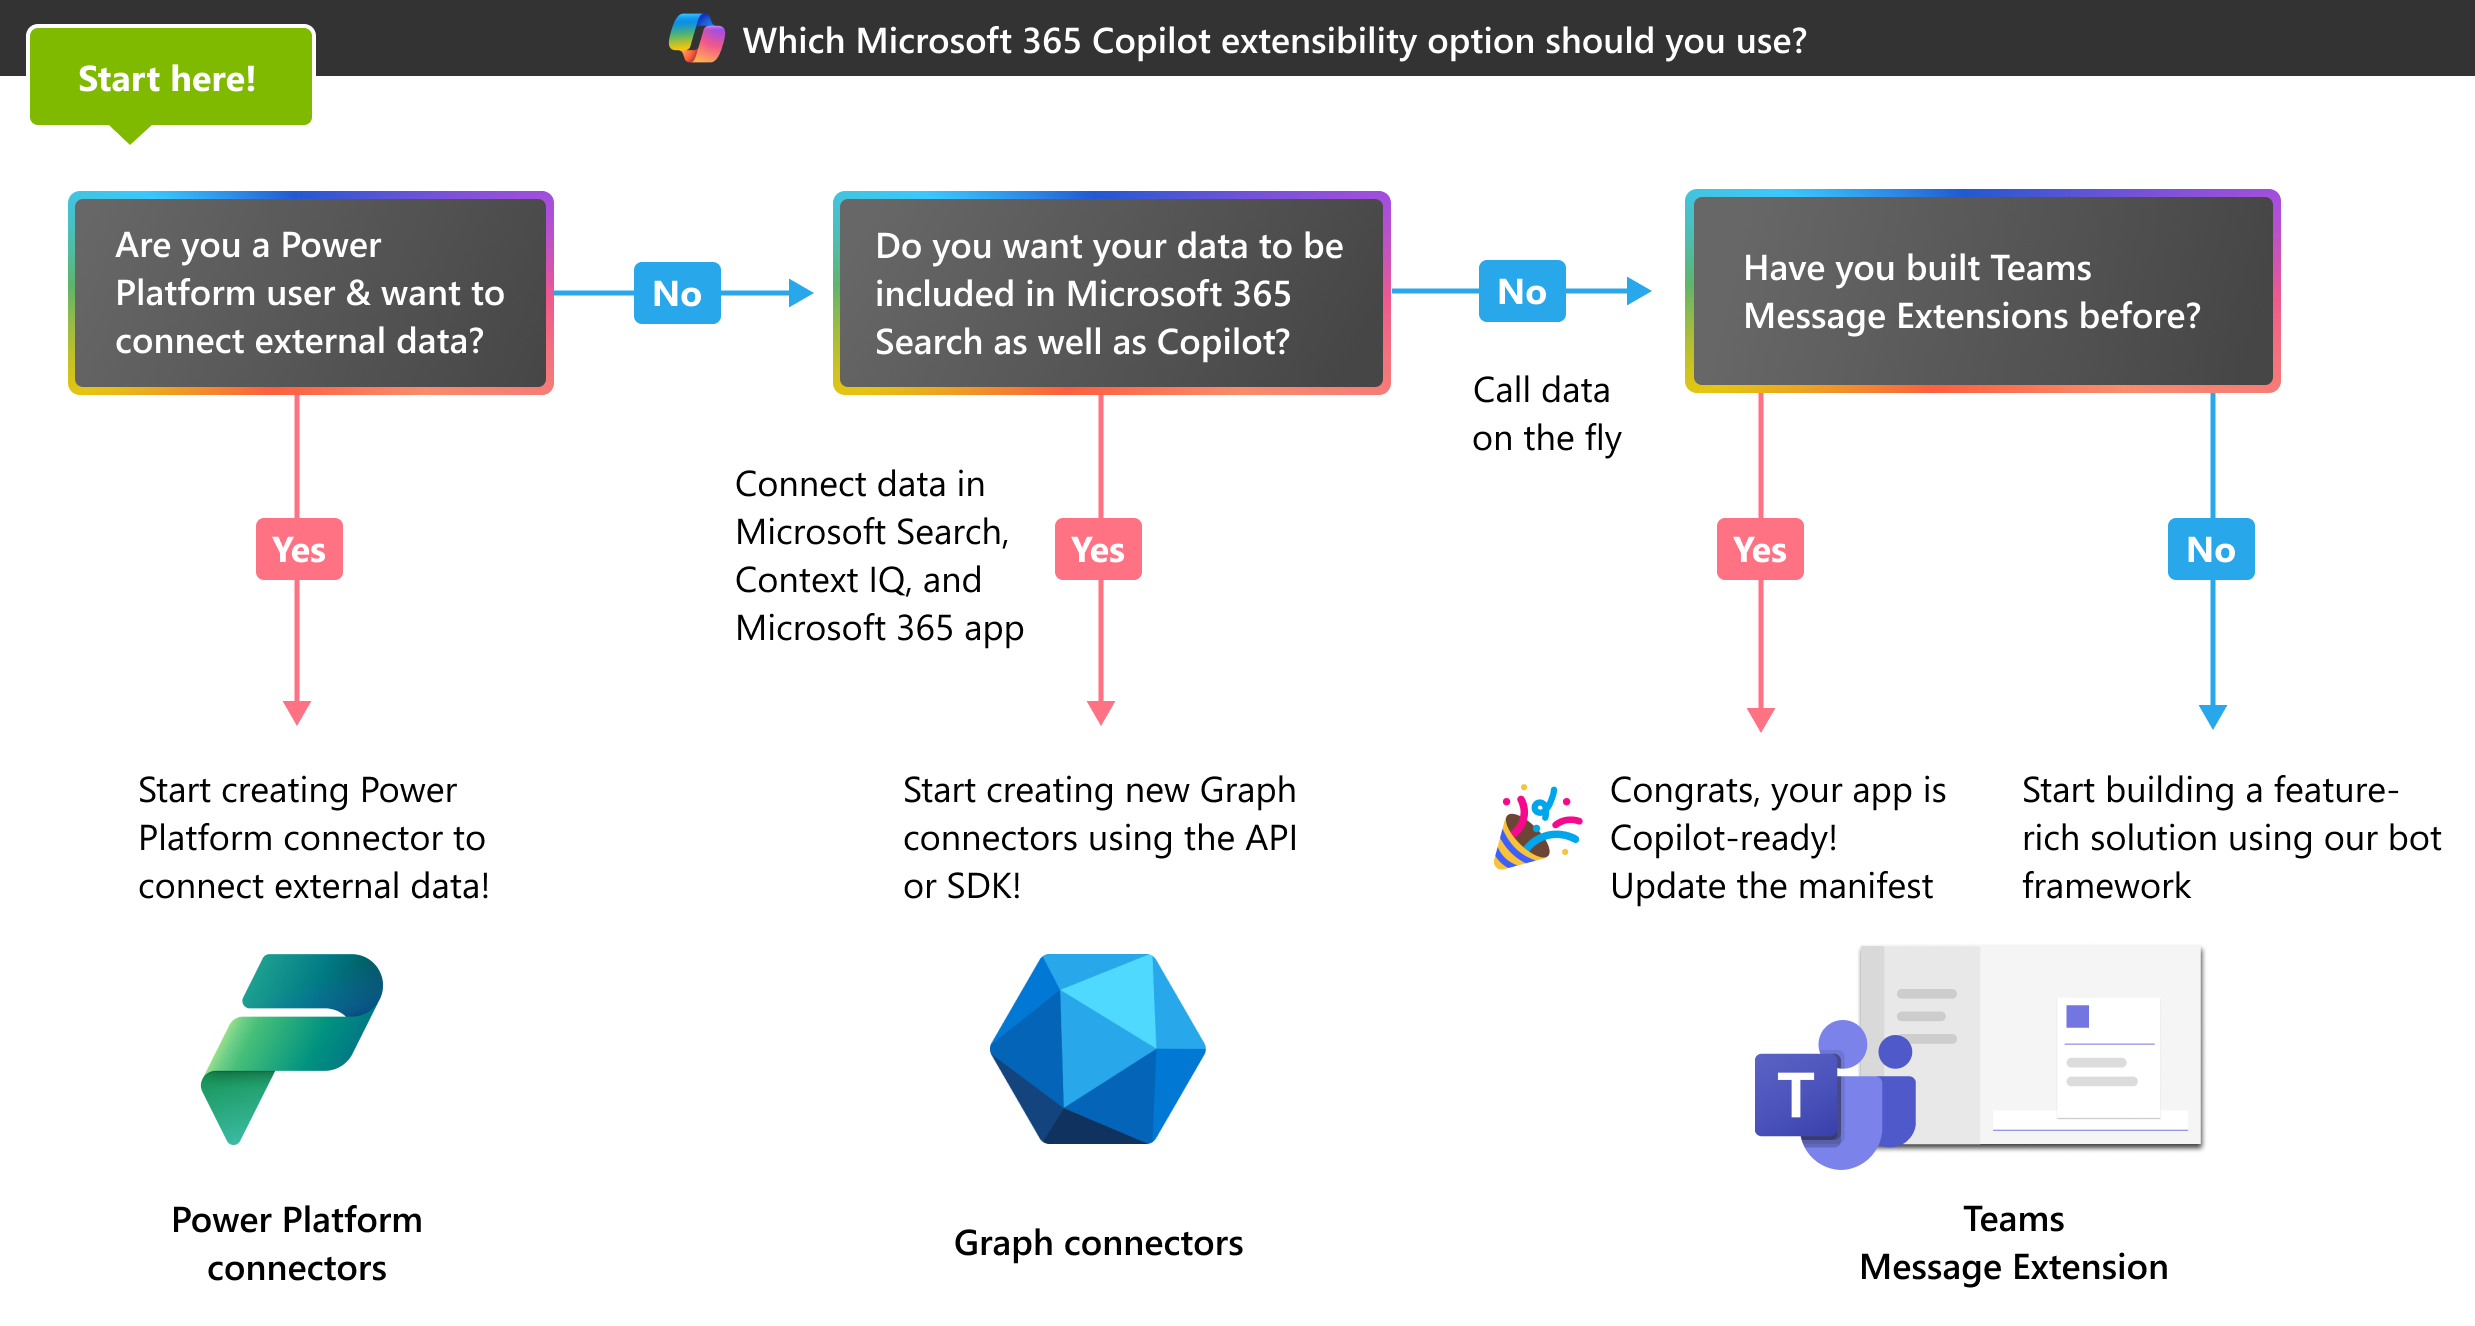
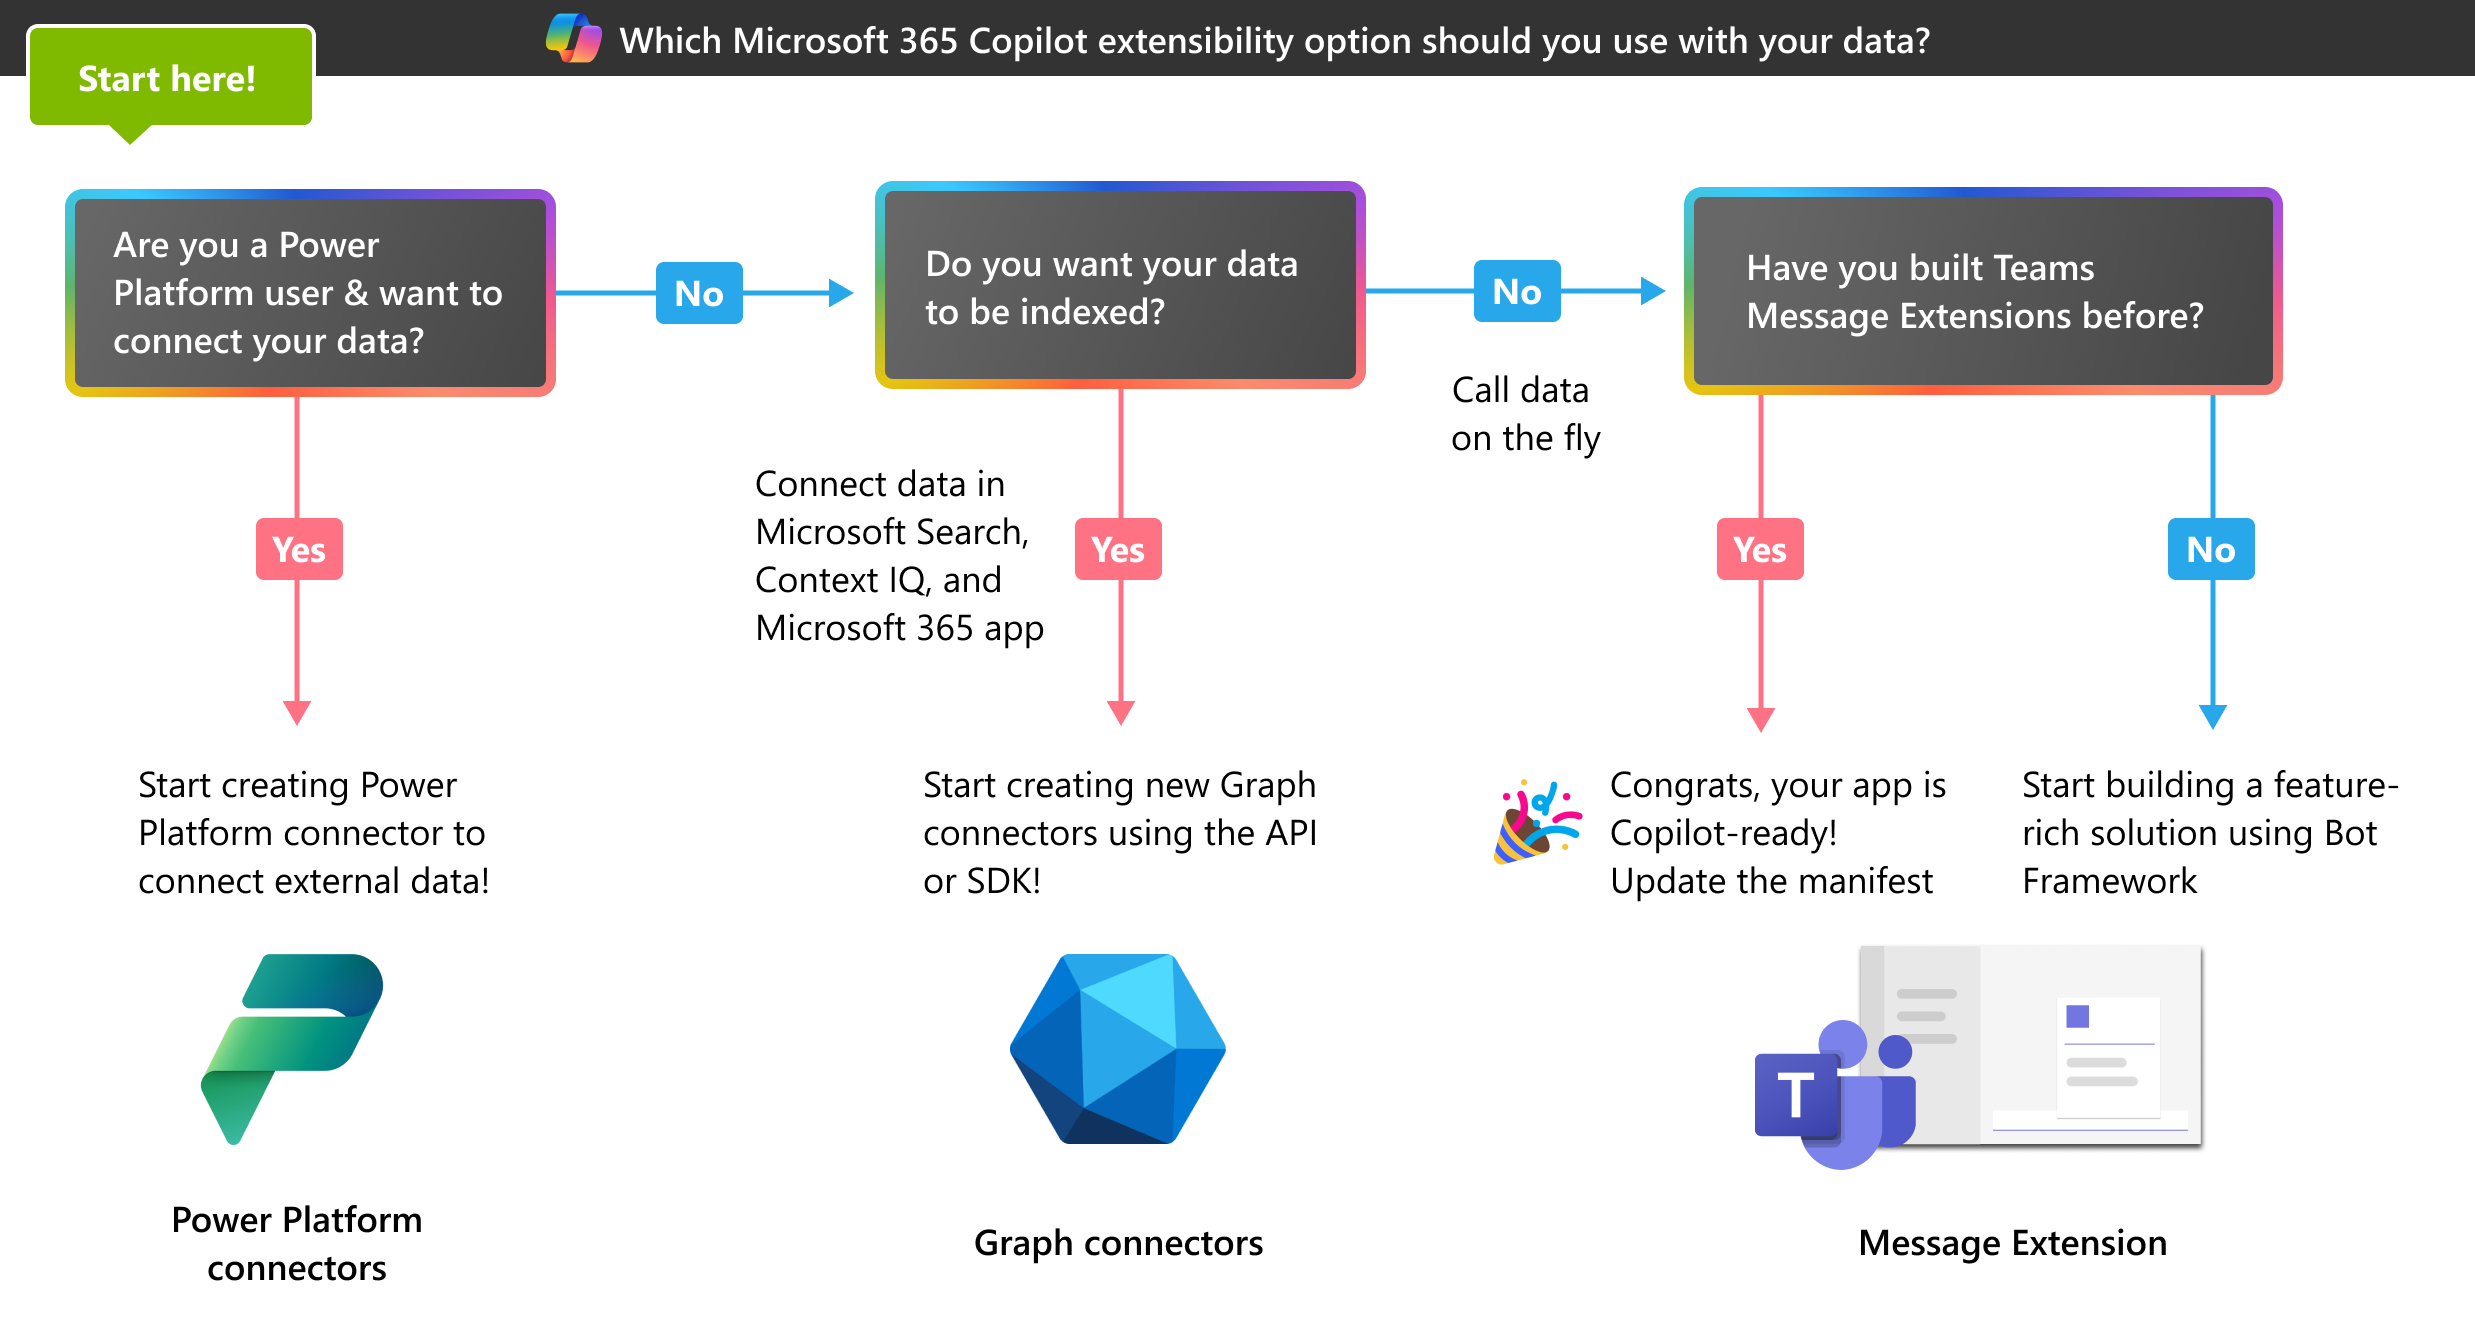
Edit content from feedback

diff --git a/docs/decision-guide.md b/docs/decision-guide.md
@@ -22,9 +22,9 @@ To start building your connector or plugins, you can select the tools and SDKs b
 
 :::image type="content" source="assets/images/decision-making-tree.png" alt-text="Decision-making questions to figure out which Copilot for Microsoft 365 extensibility service you should use" lightbox="assets/images/decision-making-tree.png":::
 
-1. If you are a low-code developer, who have invested in Power Platform already and want to expose the external data in Power Platform too, additionally to Copilot, naturally your choice would be Power Platform connectors.
-2. If you want to connect your data in Microsoft 365, including Microsoft Search, Context IQ, and the Microsoft 365 app, Graph Connectors would be your option.
-3. And if you would like to connect real-time data from external source on the fly, Message Extensions should be your choice. Write the logic using Bot Framework! And if you have built Message Extension apps for Teams before, a great news is that your app is Copilot-ready already! Make sure that your app manifest is most up-to-date.
+1. If you are a no-code or low-code developer, who have invested in Power Platform already and want to expose the external data in Power Platform too, additionally to Copilot, naturally your choice would be Power Platform connectors.
+1. If you leverage [Semantic Index](/microsoft-365-copilot/microsoft-365-copilot-overview#semantic-index) and connect your unstructured enterprise data in Microsoft 365, including Microsoft Search, Context IQ, and the Microsoft 365 app, Graph Connectors would be your option.
+1. And if you would like to connect your structured data in real-time from external source on the fly, Message Extensions should be your choice. Write the logic using Bot Framework! And if you have built Message Extension apps for Teams before, a great news is that your app is Copilot-ready already! Make sure that your app manifest is most up-to-date.
 
 ### Decisions, decisions
 
@@ -77,7 +77,7 @@ Above all, if your main consideration is a quick development by just calling an 
 |:-------------------|:--------------------------------|:--------------------------------|
 | **Also work with**                    | <li>Context IQ <li>Viva Topics <li>Enterprise Search in M365.com, Sharepoint, and Bing @ work <li>Content recommendations in M365 apps | <li>Teams chat <li>Outlook |
 | **Ease of development**               | <li>Fast connect, register schema, and index items | <li>Teams Toolkit for Visual Studio & VS Code <li>Sideloading for development & test |
-| **Developer experience limitations**  | <li>No tools for Visual Studio & VS Code <li>No sideloading <li>Need to keep in sync with the access control list (ACL) manually if you are in external groups outside of Azure AD group | <li>Steep learning curve <li>More time to develope <li>Need to handle multi-parameter prompts.
+| **Developer experience limitations**  | <li>No tools for Visual Studio & VS Code <li>No sideloading <li>Need to keep in sync with the access control list (ACL) manually if you are in external groups outside of Azure AD group | <li>Steep learning curve <li>More time to develop <li>Need to handle multi-parameter prompts.
 
 Message extension plugin developers should handle all potential prompt scenarios from users. Single-parameter prompts can be as simple as:
 > Find Chai in Northwind Inventory
